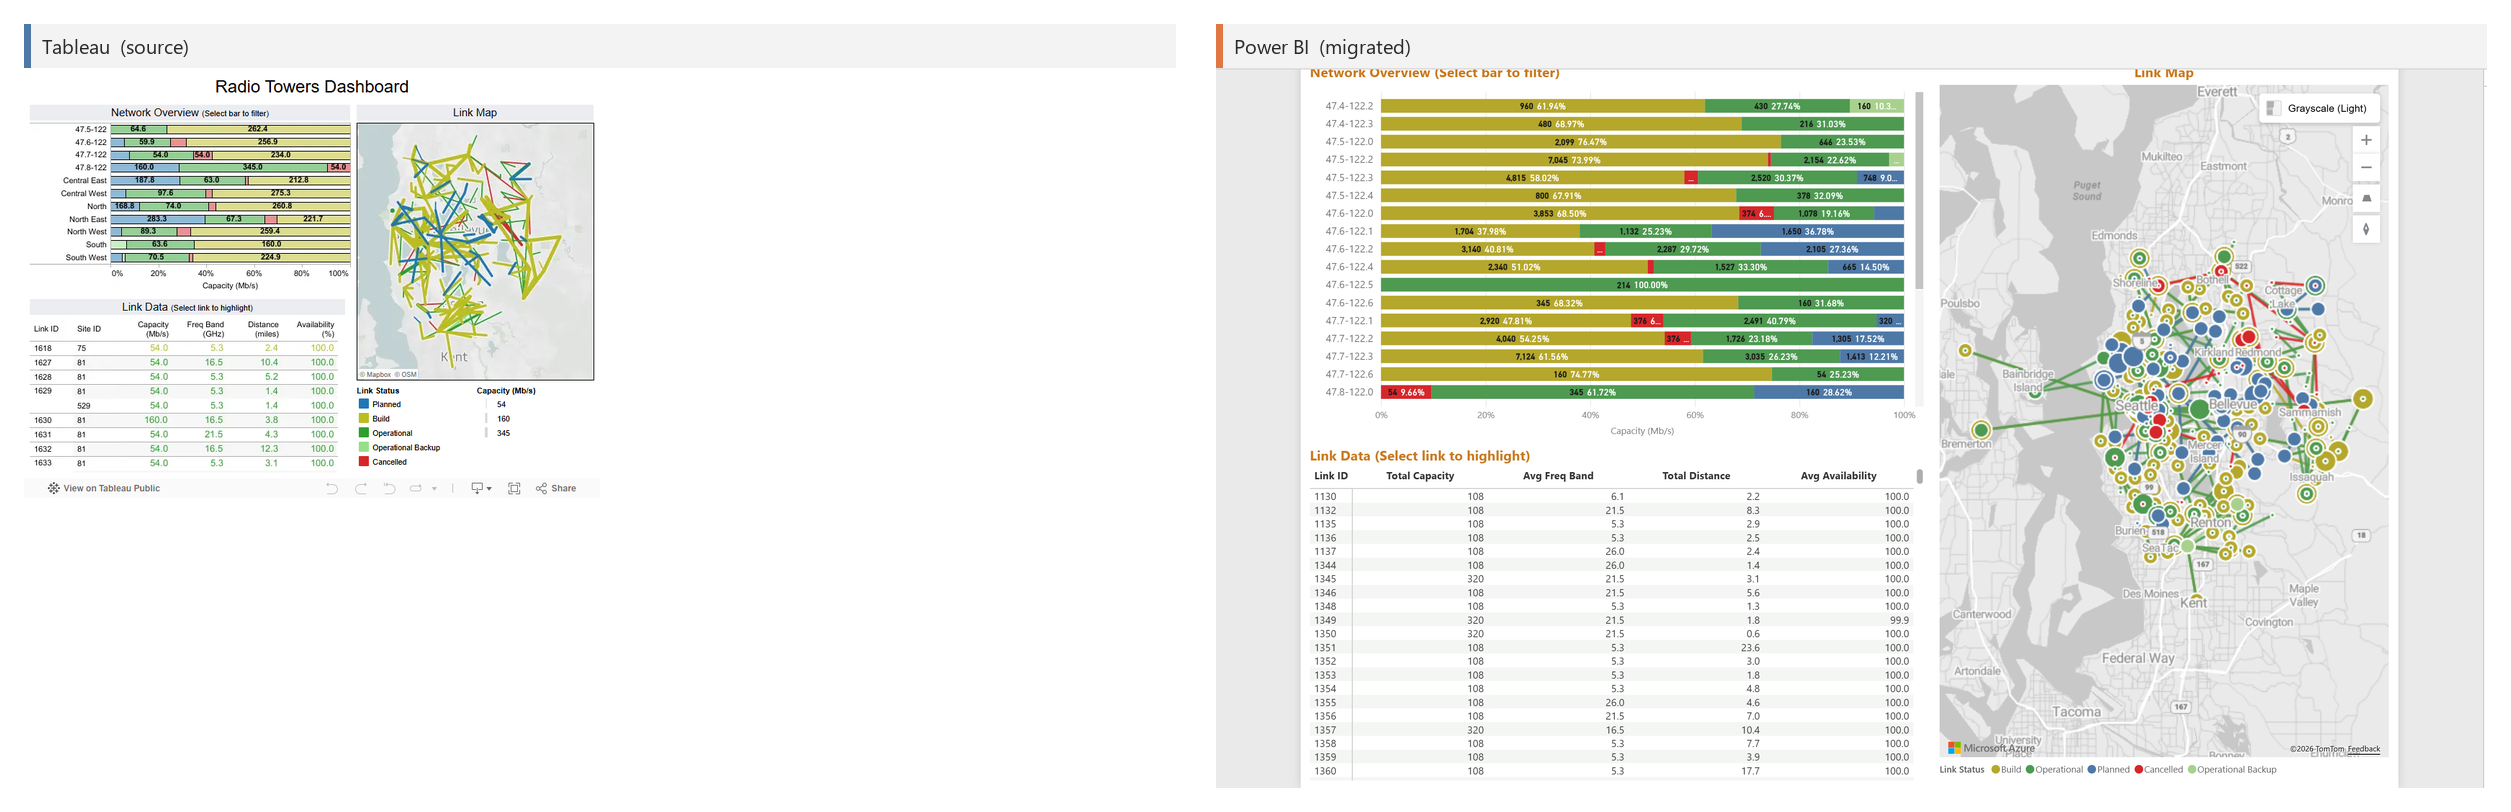
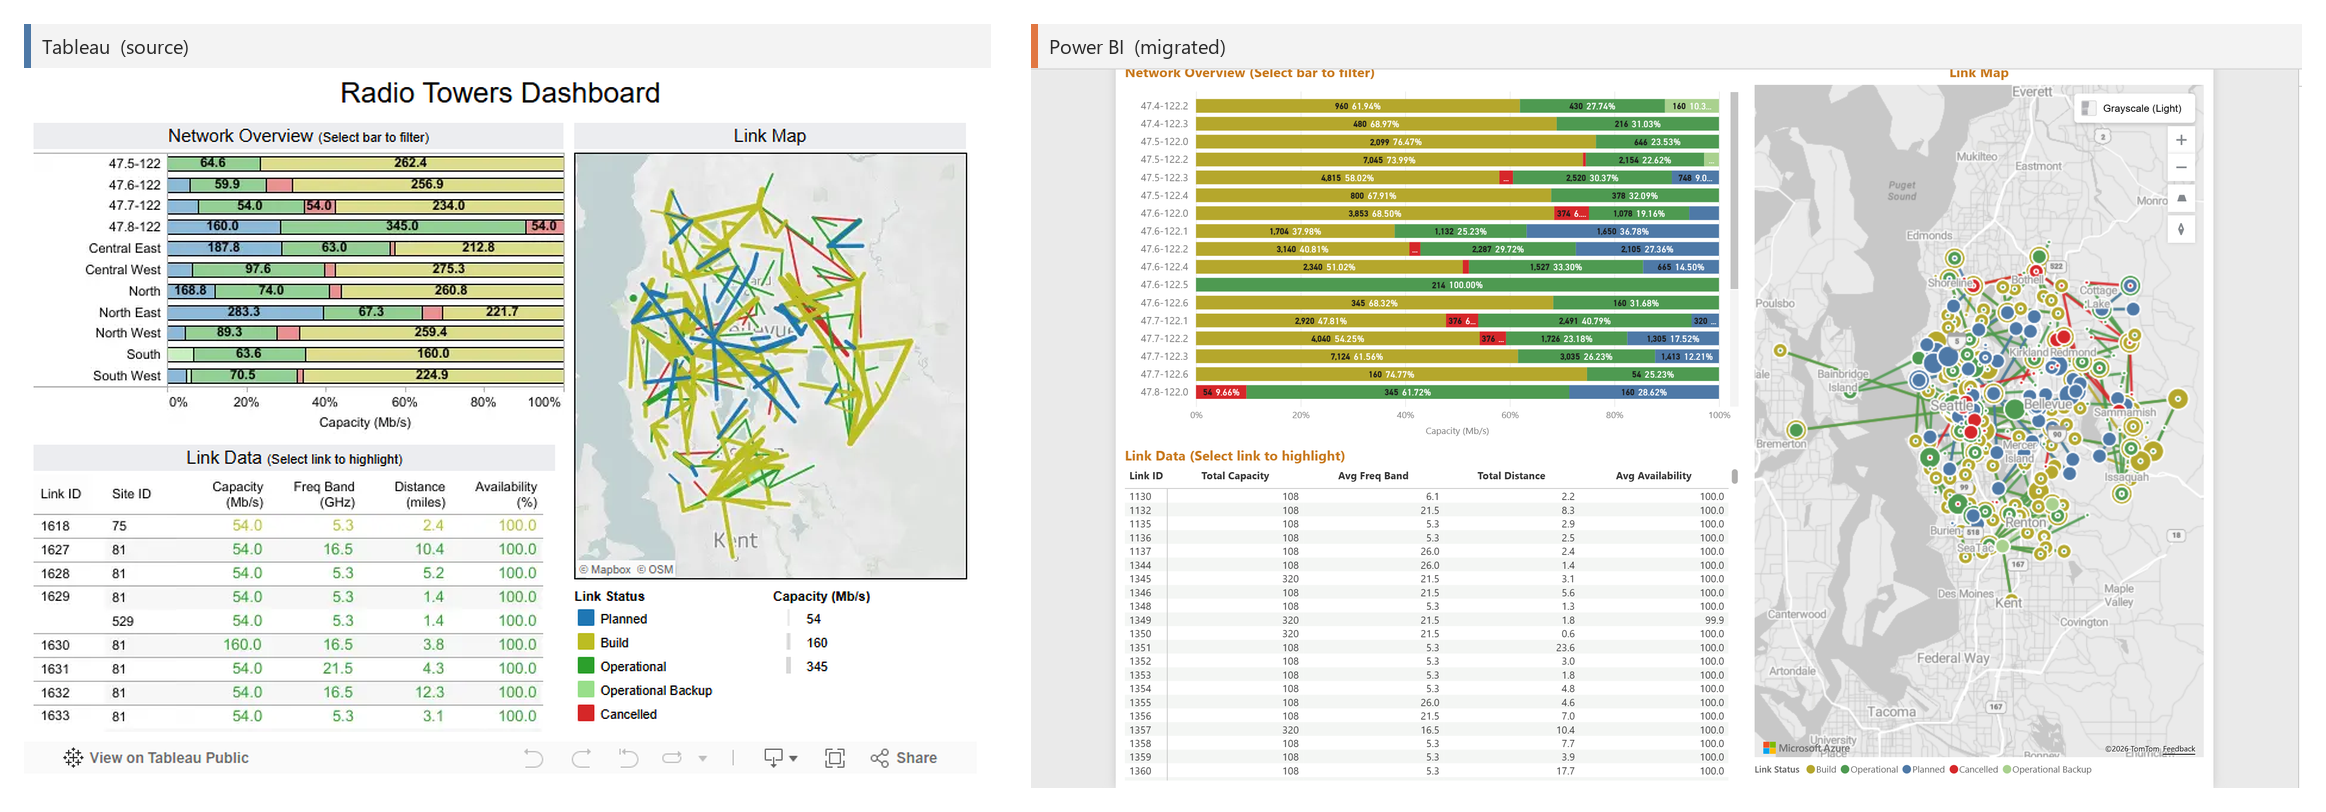
docs: fix stale/overclaimed captions + architecture claim
Honesty fixes flagged by the multi-model ship review:
- showcase.json + regenerated showcase/README.md: telecom caption no longer
  claims a "route/line map fidelity win" (the render is a bubble/point layer -
  MAKELINE link-lines are a documented capability gap); superstore caption drops
  the false "diverging-gradient Azure Maps choropleths" claim (render shows a
  basemap; being re-rendered for fidelity).
- architecture.excalidraw: removed the unverifiable "GitHub search returns 0
  results - publicly novel" marketing claim (architecture.png needs re-export to
  match).
- delete orphaned docs/showcase/README-stacked.md (unreferenced, stale duplicate).
- telecom showcase composite regenerated from the tighter Tableau crop.

Copilot-Session: 2de9d228-46b0-40ed-9786-5e7c3fea4163

diff --git a/docs/showcase/README.md b/docs/showcase/README.md
@@ -18,7 +18,7 @@ Logistics profitability & delay KPIs. GOOD/OK/BAD conditional coloring on scatte
 
 ### Telecommunications Analytics
 
-Radio-tower network dashboard. Notable: a true two-point azureMap route/line map (PathID + PointOrder) - a fidelity win over Tableau's dual-axis workaround.
+Radio-tower network dashboard. Tableau's MAKELINE link-lines between towers have no native Power BI equivalent, so they render as an azureMap point layer (a documented capability gap); the per-region stacked capacity bars and the link-detail table migrate faithfully.
 
 **Radio Towers Dashboard**
 
@@ -42,7 +42,7 @@ Company revenue-growth analysis. Exercised the pipeline's first real Tableau tab
 
 ### Superstore Sales Performance
 
-Three-dashboard analytics suite. Field Parameters for parameter-driven measure/dimension switching, current/prior-period comparison, diverging-gradient Azure Maps choropleths (data-bound reference layer), and region-comparison dot-plots.
+Three-dashboard analytics suite (Ryan Sleeper's Super Sample Superstore). Field Parameters for parameter-driven measure/dimension switching, current/prior-period comparison, azureMap region small-multiples, and region-comparison plots. (Basemap styling and KPI-card encodings are being re-rendered for higher fidelity.)
 
 **Prescriptive**
 